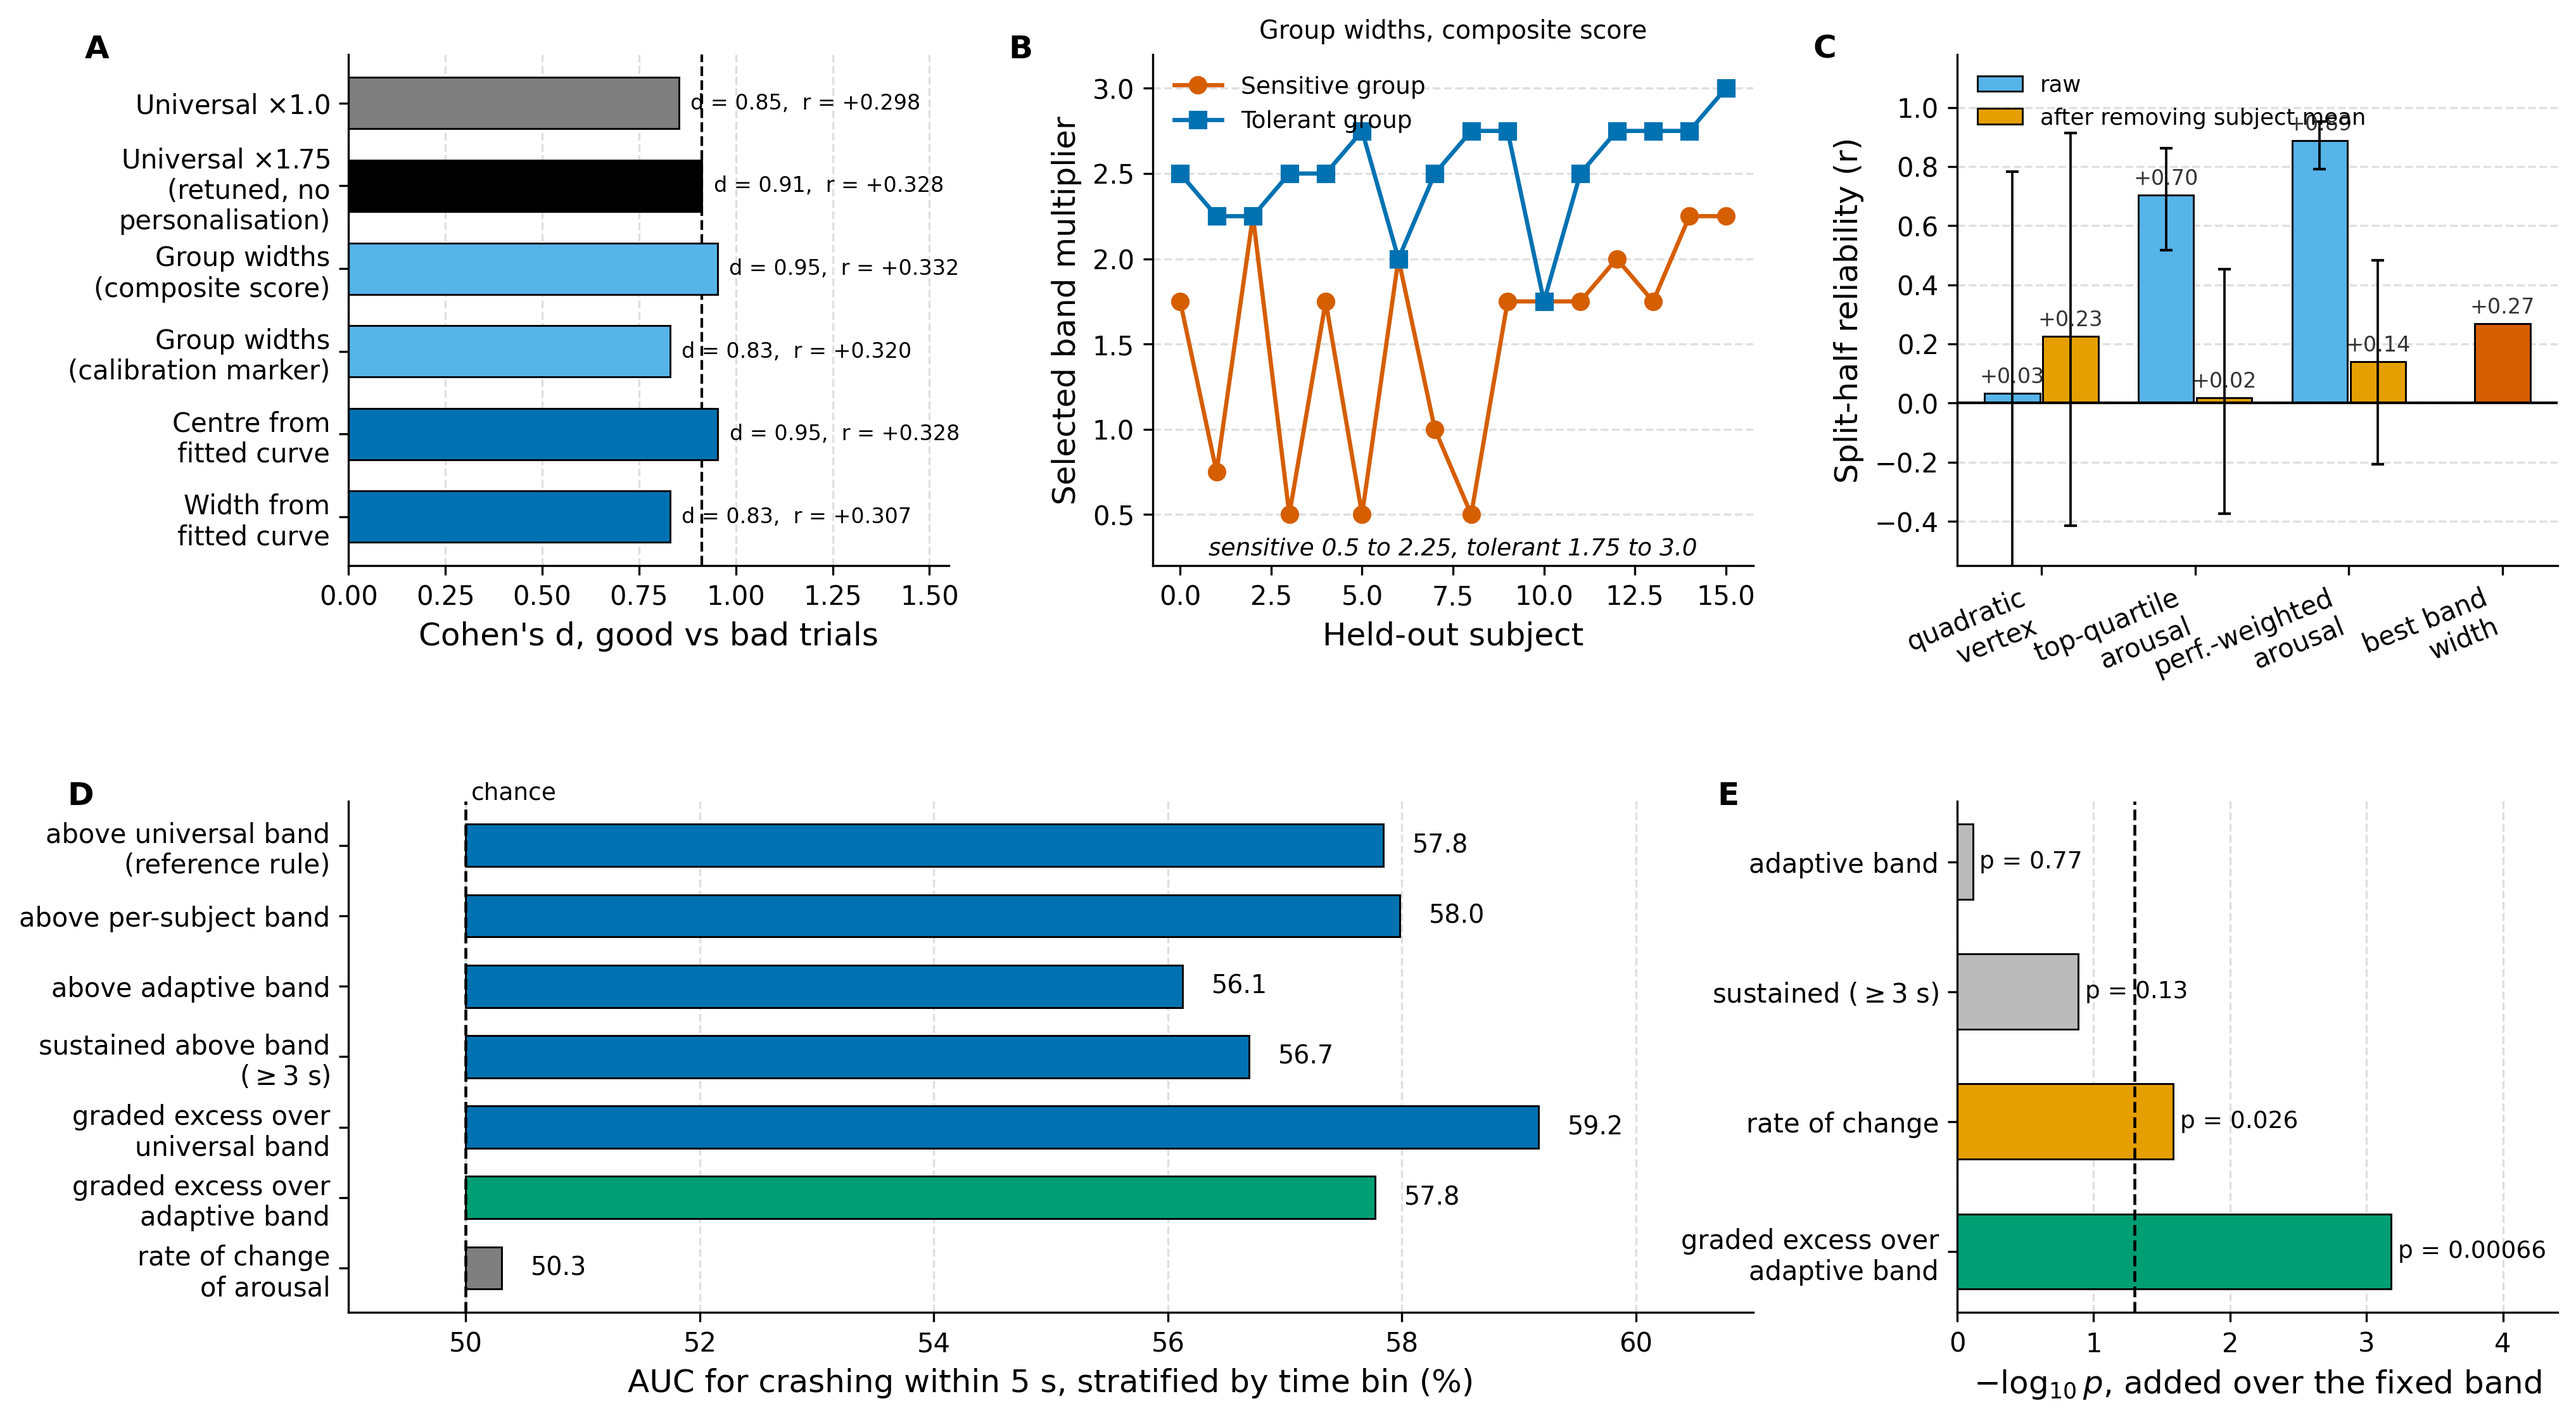
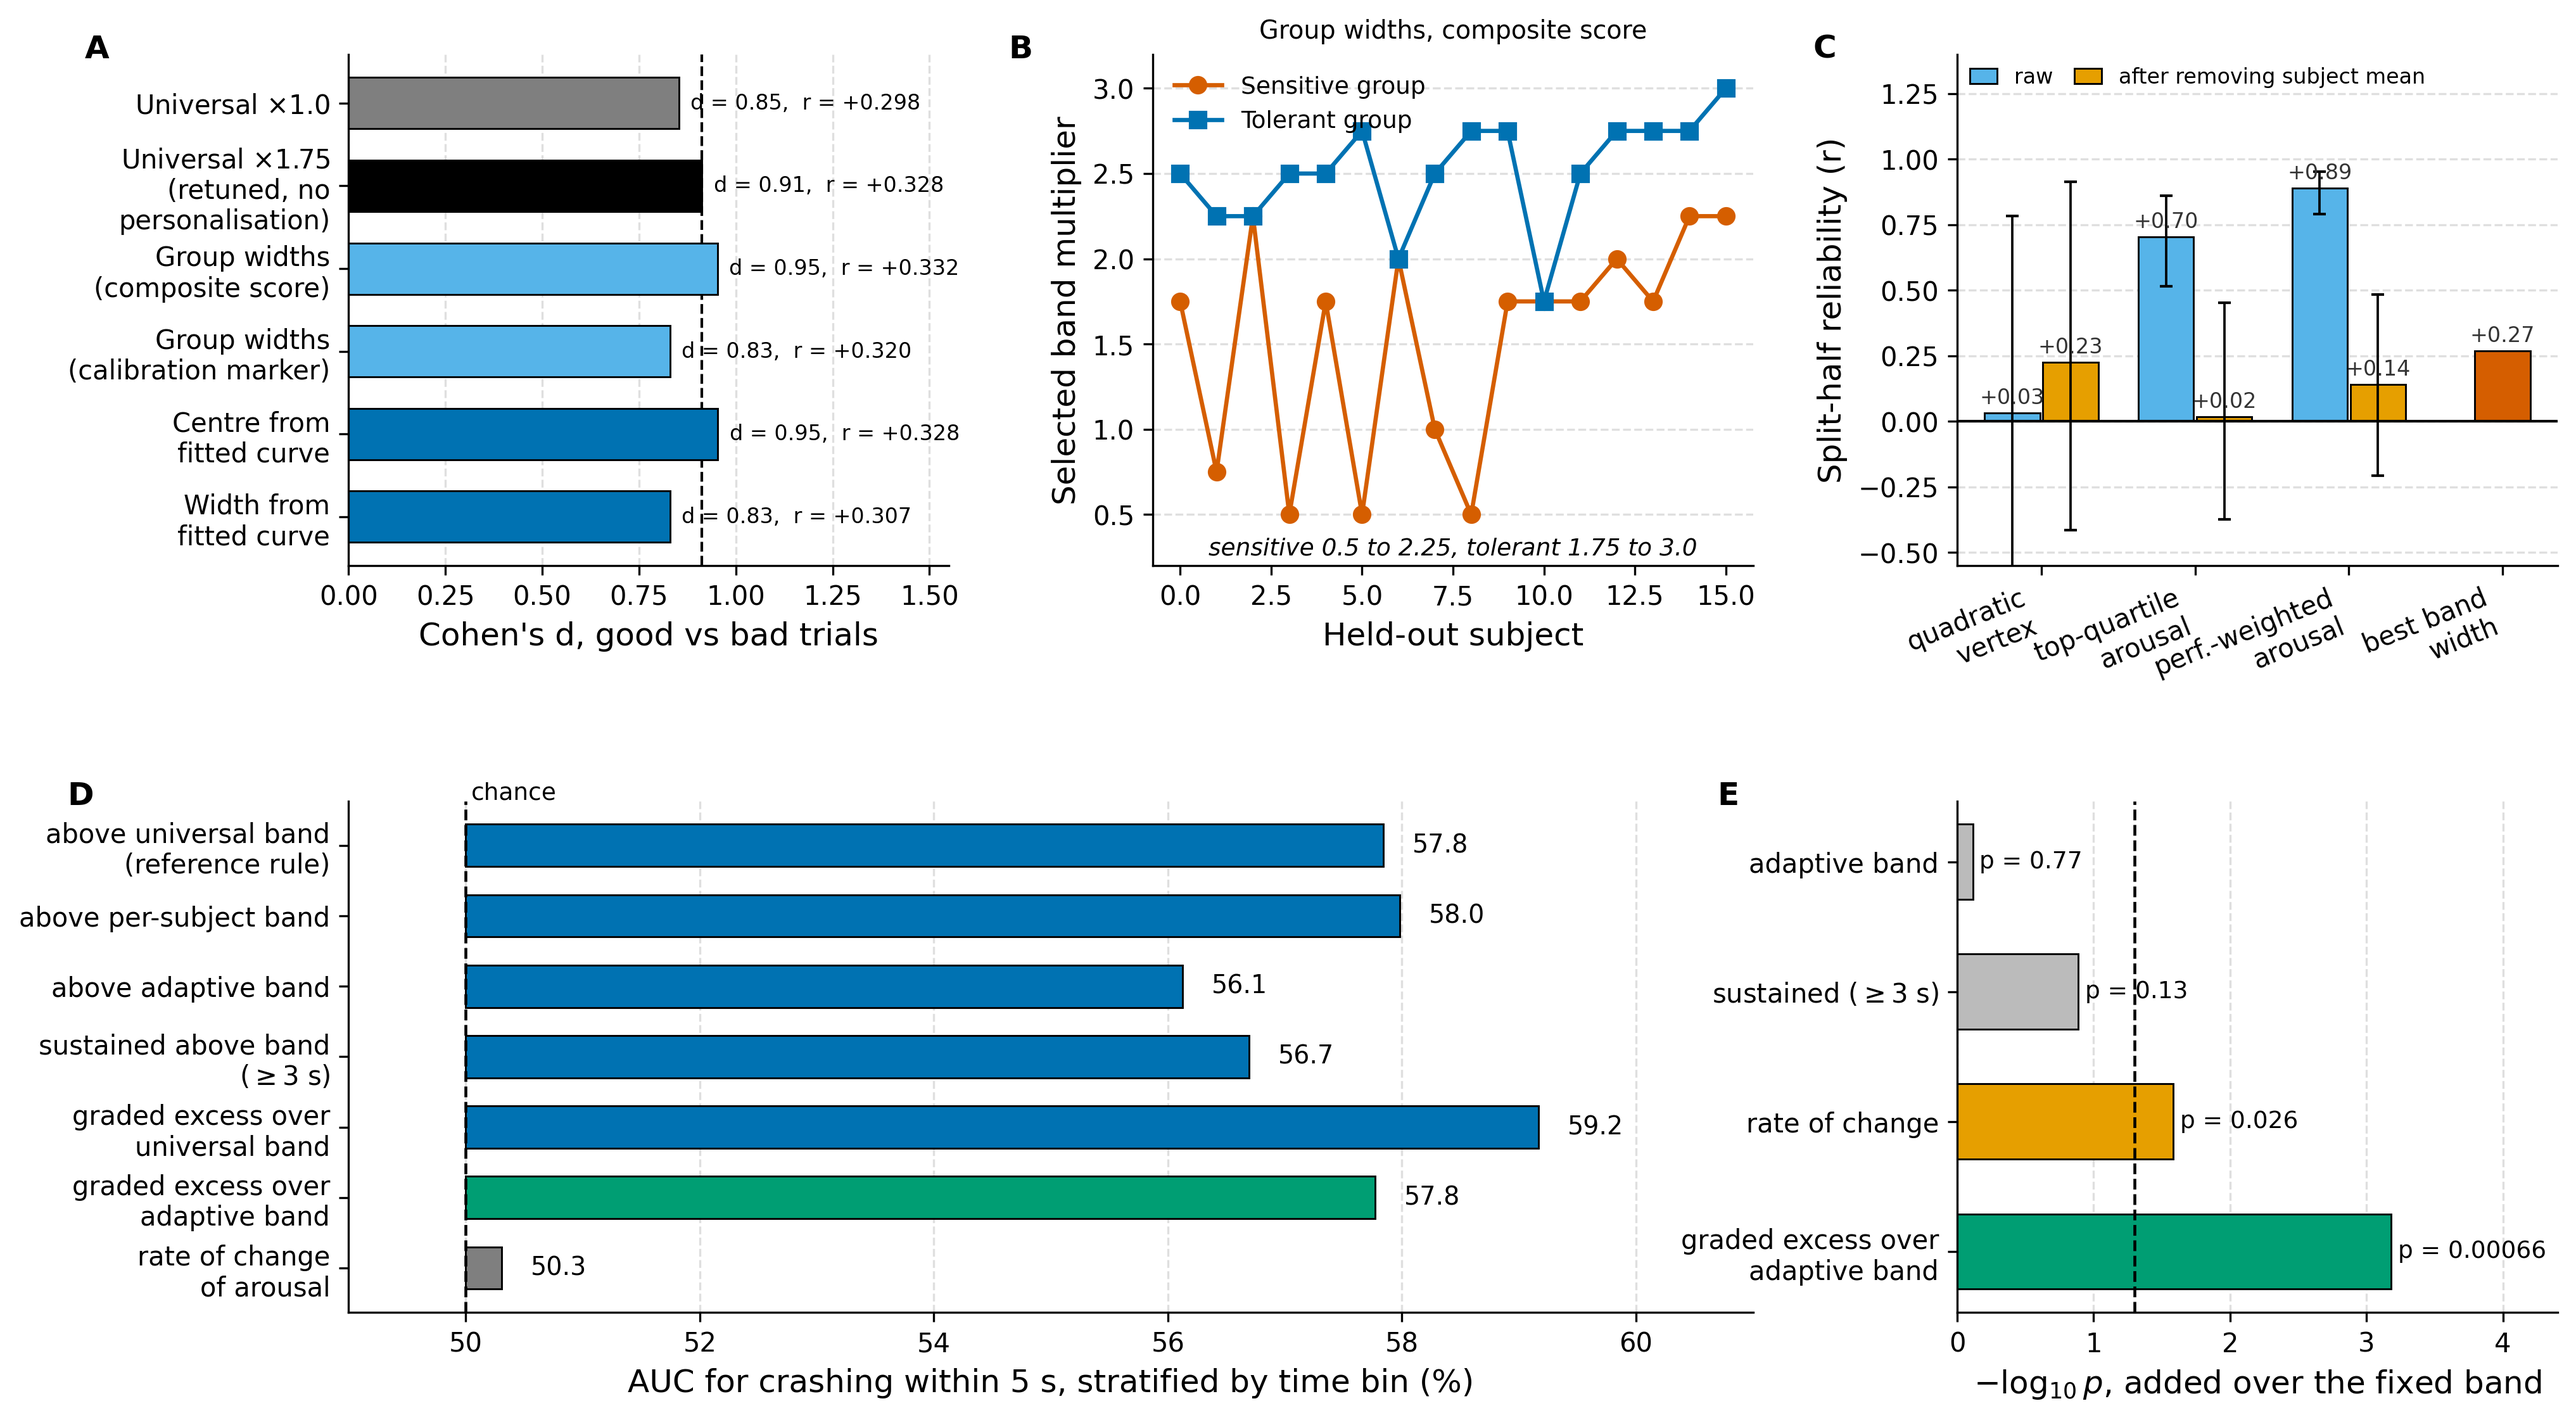
Widen figure 7 panel C so the legend clears the bar labels

Changed region(s): [[0.687, 0.0312, 0.9993, 0.4059], [0.9368, 0.2186, 0.9993, 0.2498]]

diff --git a/scripts/make_figures.py b/scripts/make_figures.py
@@ -900,8 +900,9 @@ def figure_7():
     ax.set_xticklabels(short + ["best band\nwidth"], fontsize=8.5, rotation=22,
                        ha="right")
     ax.set_ylabel("Split-half reliability (r)")
-    ax.set_ylim(-0.55, 1.18)
-    ax.legend(fontsize=8.5, frameon=False, loc="upper left")
+    ax.set_ylim(-0.55, 1.40)
+    ax.legend(fontsize=8, frameon=False, loc="upper left", ncol=2,
+              columnspacing=1.0, handlelength=1.3, borderpad=0.1)
     tidy(ax)
     panel(ax, "C", x=-0.24)
 
